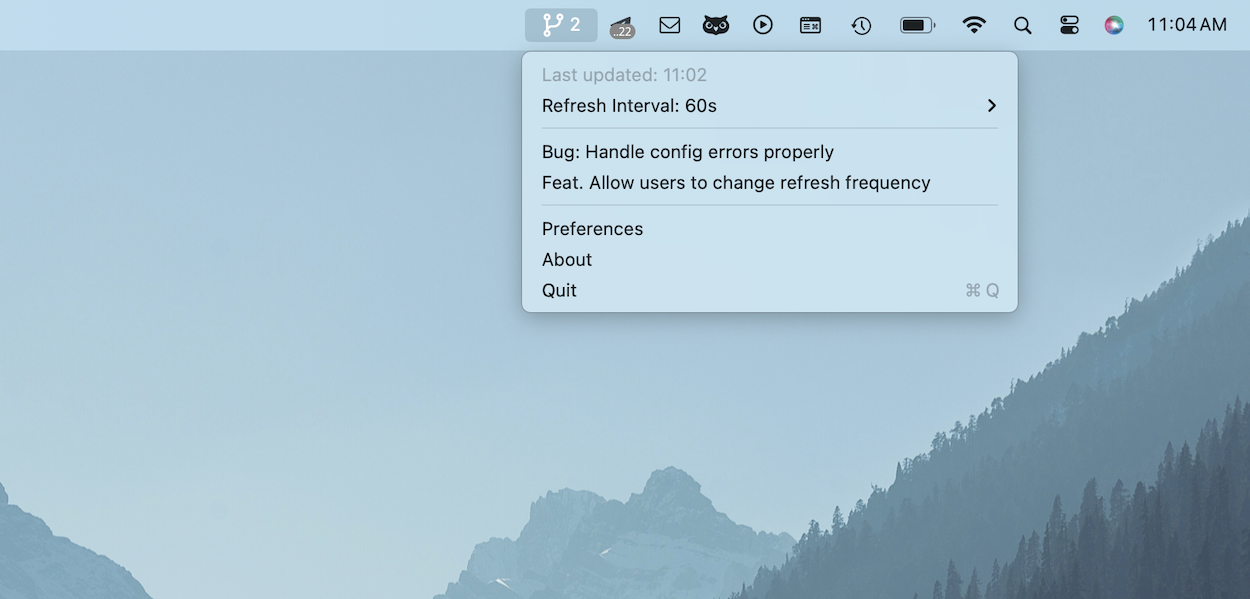
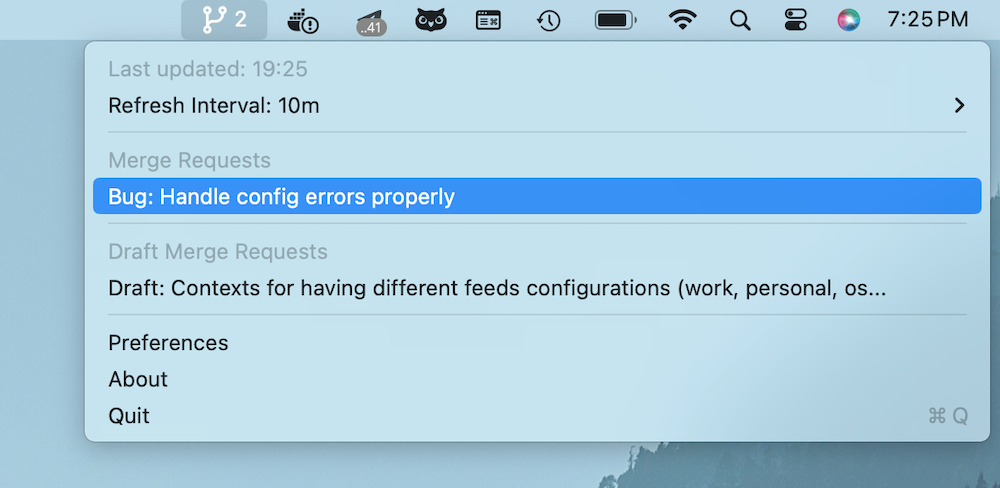
Updated screenshots & roadmap section

diff --git a/README.md b/README.md
@@ -62,10 +62,10 @@ Notice it might take a few seconds for hatch to build and setup an environment :
 
 ## Roadmap
 
+- Contexts: work, personal, etc
 - Add support for Github Pull Requests
-- Have a new separate menu sections for draft merge request
 - Notifications
-- Publish it @ the App Store
+- Maybe: publish it @ the App Store
 
 See [Milestones](https://github.com/matagus/merge-requests-monitor/milestones) for more details about the roadmap.
 
